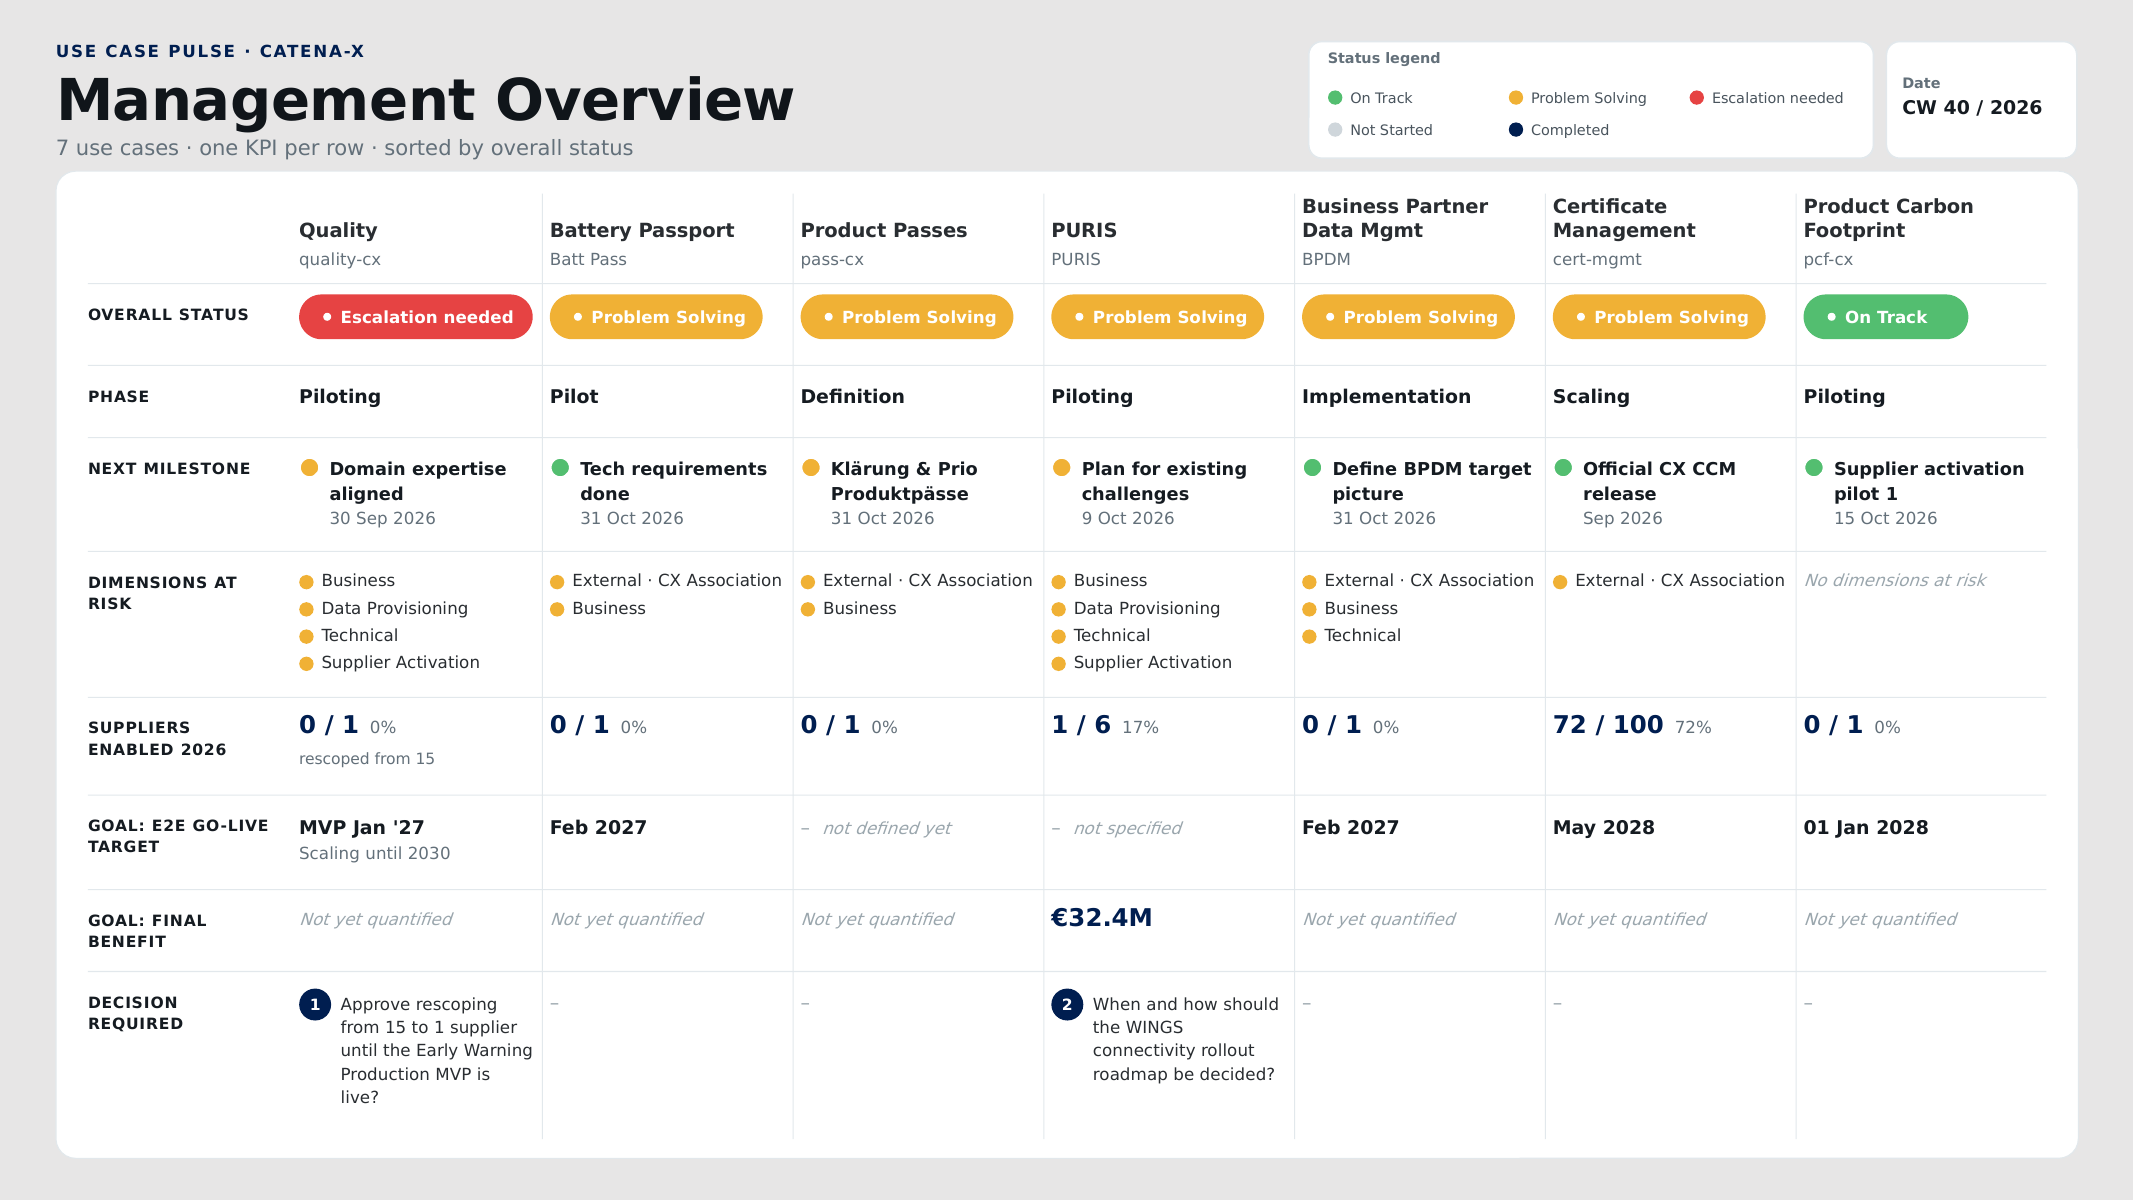
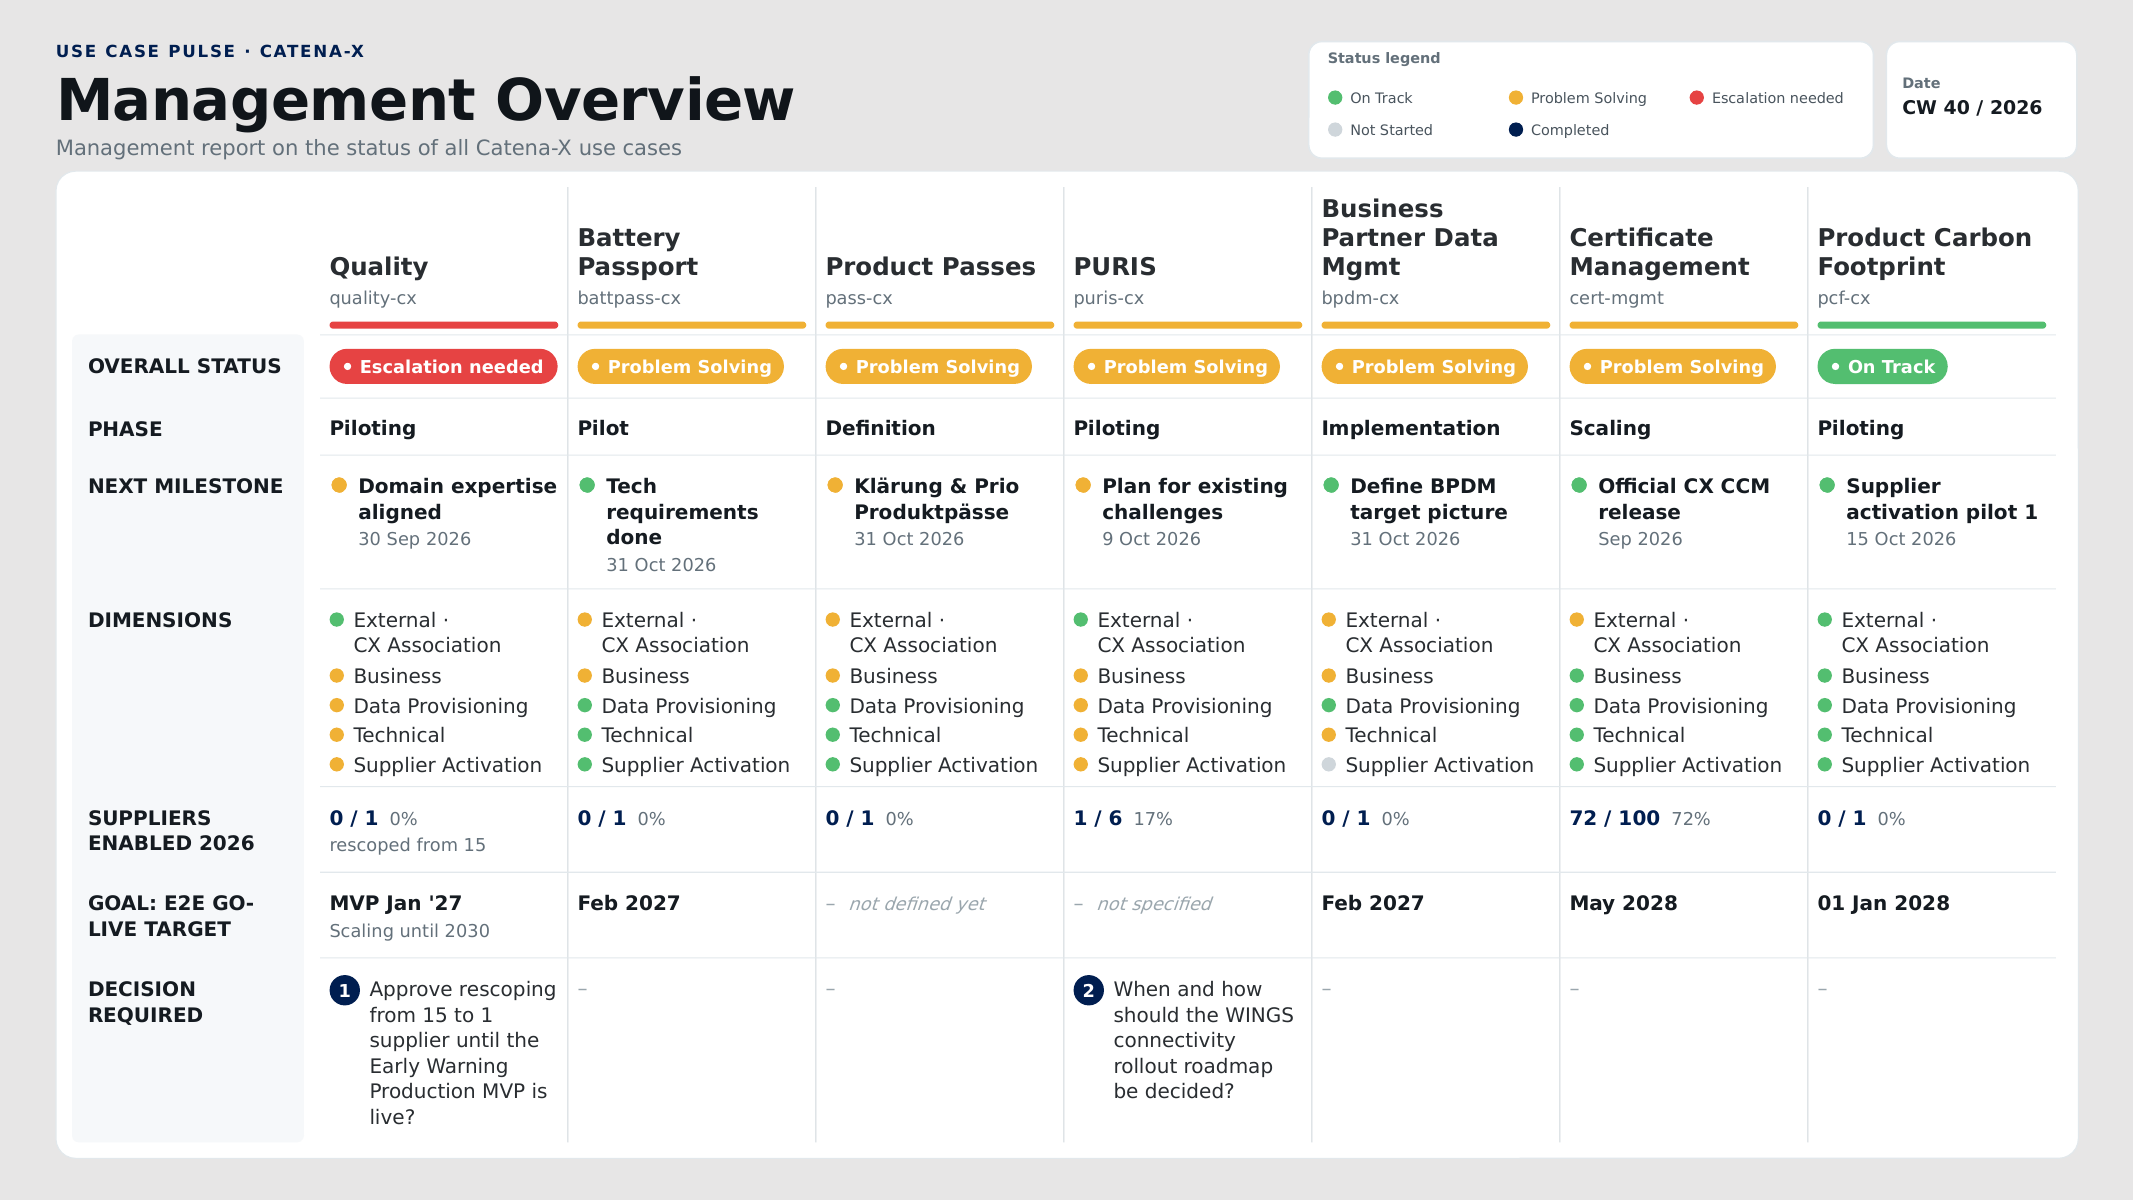
Rework Management Overview (variant 2)
- Fixed font sizes across all columns (labels 9, names 11, abbr 8,
  cells 9, sub-text 8 pt)
- Column separation: 0.5pt dividers, tinted row-label panel, status
  accent bar under each use case name
- Smaller overall-status pill
- Uniform lower-case abbreviations and new subtitle
- Remove Final Benefit row; Dimensions row shows all 5 dimensions

Claude-Session: https://claude.ai/code/session_01CQaEDurRGWu6YUbJ4GCCPu

diff --git a/scripts/build_management_overview.py b/scripts/build_management_overview.py
@@ -1,7 +1,7 @@
 """Build the "Use Case Pulse – Management Overview" slide (variant 2).
 
 Transposed version of build_overview.py: one column per use case, one row per
-KPI, so management can scan a single KPI across all use cases. Uses the same
+KPI. Each use case reads top to bottom as its own column. Uses the same
 template, colours and shape vocabulary as variant 1.
 
     python scripts/build_management_overview.py [template.pptx] [output.pptx]
@@ -10,167 +10,172 @@ template, colours and shape vocabulary as variant 1.
 import sys
 
 from build_overview import (
-    BORDER, COMPLETED, DECISIONS, DIM_NAMES, DOT, FAINT, INK, INK_STRONG, MUTED, STATUS, TEMPLATE, USE_CASES,
-    Slide, add_header, r, write_pptx,
+    BORDER, COMPLETED, DECISIONS, DIM_NAMES, DOT, FAINT, INK, INK_STRONG, MUTED, NOT_STARTED, STATUS, TEMPLATE,
+    TILE, USE_CASES, Slide, add_header, r, write_pptx,
 )
 
 TEMPLATE = sys.argv[1] if len(sys.argv) > 1 else TEMPLATE
 OUTPUT = sys.argv[2] if len(sys.argv) > 2 else "output/UseCase_Pulse_Management_Overview_CW40_26.pptx"
 
-# Management KPIs per use case (KPIS / FINAL GOAL boxes of the original PULSE slides).
-# go_live: (main value, second line) — None = not defined in the source slide.
-EXTRA = {
-    "Quality": dict(go_live=("MVP Jan '27", "Scaling until 2030"), benefit=None),
-    "Battery Passport": dict(go_live=("Feb 2027", None), benefit=None),
-    "Product Passes": dict(go_live=None, go_live_note="not defined yet", benefit=None),
-    "PURIS": dict(go_live=None, go_live_note="not specified", benefit="€32.4M"),
-    "Business Partner Data Mgmt": dict(go_live=("Feb 2027", None), benefit=None),
-    "Certificate Management": dict(go_live=("May 2028", None), benefit=None),
-    "Product Carbon Footprint": dict(go_live=("01 Jan 2028", None), benefit=None),
+# Fixed font sizes for every column (pt) — no per-cell shrinking
+F_LABEL, F_NAME, F_ABBR, F_CELL, F_SUB = 9, 11, 8, 9, 8
+
+# Lower-case abbreviations for this slide (cert-mgmt is the original source abbreviation)
+ABBR = {
+    "Quality": "quality-cx",
+    "Battery Passport": "battpass-cx",
+    "Product Passes": "pass-cx",
+    "PURIS": "puris-cx",
+    "Business Partner Data Mgmt": "bpdm-cx",
+    "Certificate Management": "cert-mgmt",
+    "Product Carbon Footprint": "pcf-cx",
 }
 
-PILL_W = {"On Track": 1.03, "Problem Solving": 1.33, "Escalation needed": 1.46, "Not Started": 1.07}
+# E2E go-live target (KPIS box of the original PULSE slides): (main value, second line),
+# or None with a note when the source slide does not define it.
+GO_LIVE = {
+    "Quality": (("MVP Jan '27", "Scaling until 2030"), None),
+    "Battery Passport": (("Feb 2027", None), None),
+    "Product Passes": (None, "not defined yet"),
+    "PURIS": (None, "not specified"),
+    "Business Partner Data Mgmt": (("Feb 2027", None), None),
+    "Certificate Management": (("May 2028", None), None),
+    "Product Carbon Footprint": (("01 Jan 2028", None), None),
+}
+
+# Dimension labels split where they would otherwise wrap mid-phrase in a narrow column
+DIM_LINES = {"External · CX Association": ["External ·", "CX Association"]}
+LINE = 0.165  # height of one 9pt text line
 
 # Row key, label, base height (inches); spare card height is shared out evenly below
 ROWS = [
-    ("status", "Overall status", 0.42),
-    ("phase", "Phase", 0.36),
-    ("ms", "Next milestone", 0.62),
-    ("dims", "Dimensions at risk", 0.82),
+    ("status", "Overall status", 0.38),
+    ("phase", "Phase", 0.34),
+    ("ms", "Next milestone", 0.82),
+    ("dims", "Dimensions", 1.22),
     ("sup", "Suppliers enabled 2026", 0.52),
-    ("golive", "Goal: E2E go-live target", 0.50),
-    ("benefit", "Goal: Final benefit", 0.42),
-    ("dec", "Decision required", 1.00),
+    ("golive", "Goal: E2E go-live target", 0.52),
+    ("dec", "Decision required", 1.14),
 ]
-GROW = {k: 1 for k, _, _ in ROWS}
 
 
-def dims_at_risk(uc):
-    """Only Problem Solving / Escalation dimensions; green and not-started ones are left out."""
-    named = list(zip(DIM_NAMES, uc["dims"])) + [("Supplier Activation", uc["sa"])]
-    return [(name, st) for name, st in named if st in ("ps", "esc")]
+def pill_width(label):
+    # dot + left padding, ~0.068" per 8pt bold character, right padding
+    return 0.19 + 0.068 * len(label) + 0.08
 
 
 def build():
     s = Slide()
-    add_header(s, "Management Overview",
-               f"{len(USE_CASES)} use cases · one KPI per row · sorted by overall status")
+    add_header(s, "Management Overview", "Management report on the status of all Catena-X use cases")
 
     card_x, card_y, card_w, card_bottom = 0.35, 1.07, 12.64, 7.24
     s.shape("Matrix Card", card_x, card_y, card_w, card_bottom - card_y, "roundRect", 2000, "FFFFFF", BORDER)
 
-    label_x, label_w = 0.55, 1.15
-    col_x0, col_x1 = 1.82, 12.79
+    panel_x, panel_w = 0.45, 1.45
+    label_x, label_w = 0.55, 1.28
+    col_x0, col_x1 = 2.00, 12.85
     cw = (col_x1 - col_x0) / len(USE_CASES)
-    pad = 0.05
-    head_y, head_h = card_y + 0.10, 0.60
+    pad = 0.06
+    head_y, head_h = card_y + 0.10, 0.92
 
-    # Distribute the remaining card height over the rows that wrap
     rows_top = head_y + head_h
-    spare = (card_bottom - 0.08) - rows_top - sum(h for _, _, h in ROWS)
-    weight = sum(GROW.values())
-    heights = {k: h + spare * GROW.get(k, 0) / weight for k, _, h in ROWS}
+    rows_bottom = card_bottom - 0.10
+    spare = rows_bottom - rows_top - sum(h for _, _, h in ROWS)
+    heights = {k: h + spare / len(ROWS) for k, _, h in ROWS}
 
-    # Column headers: use case name (up to two lines, bottom-aligned) + abbreviation
+    # Row label column on a tinted panel, clearly apart from the matrix
+    s.shape("Row Label Panel", panel_x, rows_top, panel_w, rows_bottom - rows_top, "roundRect", 3000, TILE)
+
+    # Column headers: name (up to three lines, bottom-aligned), abbreviation, status accent bar
     for c, uc in enumerate(USE_CASES):
         x = col_x0 + c * cw + pad
-        s.text(f"Col {uc['name']} Name", x, head_y, cw - 2 * pad, 0.34,
-               [[r(uc["name"], 8.75, True, INK)]], anchor="b", line_pts=1100)
-        s.text(f"Col {uc['name']} Abbr", x, head_y + 0.37, cw - 2 * pad, 0.15,
-               [[r(uc["abbr"], 7.5, False, MUTED)]])
-    # Vertical column dividers
+        w = cw - 2 * pad
+        n = uc["name"]
+        s.text(f"Col {n} Name", x, head_y, w, 0.58, [[r(n, F_NAME, True, INK)]], anchor="b", line_pts=1300)
+        s.text(f"Col {n} Abbr", x, head_y + 0.61, w, 0.16, [[r(ABBR[n], F_ABBR, False, MUTED)]])
+        s.shape(f"Col {n} Status Bar", x, head_y + head_h - 0.08, w, 0.045, "roundRect", 50000,
+                STATUS[uc["status"]][1])
+
+    # Thin vertical dividers (0.5pt) between the use case columns, header to bottom
     for c in range(1, len(USE_CASES)):
-        s.shape(f"Col Divider {c}", col_x0 + c * cw, head_y + 0.04, 0.007,
-                card_bottom - 0.12 - head_y - 0.04, fill=BORDER)
+        s.shape(f"Col Divider {c}", col_x0 + c * cw - 0.0035, head_y, 0.007, rows_bottom - head_y, fill=NOT_STARTED)
 
     y = rows_top
     for key, label, _ in ROWS:
         h = heights[key]
-        s.shape(f"Row Divider {label}", label_x, y, col_x1 - label_x, 0.007, fill=BORDER)
-        s.text(f"Row Label {label}", label_x, y + 0.12, label_w, 0.30,
-               [[r(label.upper(), 7, True, INK_STRONG, 40)]], anchor="t", line_pts=950)
-        top = y + 0.12
+        s.shape(f"Row Divider {label}", col_x0, y, col_x1 - col_x0, 0.007, fill=BORDER)
+        s.text(f"Row Label {label}", label_x, y + 0.11, label_w, h - 0.16,
+               [[r(label.upper(), F_LABEL, True, INK_STRONG)]], anchor="t", line_pts=1150)
+        top = y + 0.11
         for c, uc in enumerate(USE_CASES):
             x = col_x0 + c * cw + pad
             w = cw - 2 * pad
             n = uc["name"]
-            ex = EXTRA[n]
 
             if key == "status":
                 lbl, fill, fg = STATUS[uc["status"]]
-                pw = PILL_W[lbl]
-                py = top - 0.05
-                s.shape(f"{n} Status Pill", x, py, pw, 0.28, "roundRect", 50000, fill)
-                s.shape(f"{n} Status Dot", x + 0.15, py + 0.115, 0.05, 0.05, "ellipse", fill=fg)
-                s.text(f"{n} Status Text", x + 0.26, py + 0.07, pw - 0.30, 0.14,
-                       [[r(lbl, 7.5, True, fg)]], wrap=False)
+                pw, ph = pill_width(lbl), 0.22
+                s.shape(f"{n} Status Pill", x, top - 0.02, pw, ph, "roundRect", 50000, fill)
+                s.shape(f"{n} Status Dot", x + 0.09, top - 0.02 + ph / 2 - 0.022, 0.045, 0.045, "ellipse", fill=fg)
+                s.text(f"{n} Status Text", x + 0.19, top - 0.02, pw - 0.23, ph,
+                       [[r(lbl, F_SUB, True, fg)]], wrap=False)
 
             elif key == "phase":
-                s.text(f"{n} Phase", x, top, w, 0.17, [[r(uc["phase"], 8.5, True, INK_STRONG)]], anchor="t")
+                s.text(f"{n} Phase", x, top, w, LINE, [[r(uc["phase"], F_CELL, True, INK_STRONG)]], anchor="t")
 
             elif key == "ms":
                 st, ms_name, ms_date = uc["ms"]
-                s.shape(f"{n} Milestone Dot", x, top + 0.005, 0.13, 0.13, "ellipse", fill=DOT[st],
+                s.shape(f"{n} Milestone Dot", x, top + 0.02, 0.12, 0.12, "ellipse", fill=DOT[st],
                         line="FFFFFF", line_w=19050)
-                s.text(f"{n} Milestone", x + 0.19, top - 0.01, w - 0.19, h - 0.14,
-                       [[r(ms_name, 8, True, INK_STRONG)], [r(ms_date, 7.5, False, MUTED)]],
-                       anchor="t", line_pts=1100)
+                s.text(f"{n} Milestone", x + 0.18, top, w - 0.18, h - 0.14,
+                       [[r(ms_name, F_CELL, True, INK_STRONG)], [r(ms_date, F_SUB, False, MUTED)]],
+                       anchor="t", line_pts=1150)
 
             elif key == "dims":
-                risk = dims_at_risk(uc)
-                if not risk:
-                    s.text(f"{n} No Dims", x, top, w, 0.16,
-                           [[r("No dimensions at risk", 7.5, False, FAINT, None, True)]], anchor="t")
-                for k, (dim, st) in enumerate(risk):
-                    ly = top + k * 0.17
-                    s.shape(f"{n} Risk Dot {dim}", x, ly + 0.03, 0.09, 0.09, "ellipse", fill=DOT[st])
-                    s.text(f"{n} Risk {dim}", x + 0.14, ly, w - 0.14, 0.16,
-                           [[r(dim, 7.5, False, INK)]], anchor="t")
+                ly = top
+                for dim, st in list(zip(DIM_NAMES, uc["dims"])) + [("Supplier Activation", uc["sa"])]:
+                    lines = DIM_LINES.get(dim, [dim])
+                    s.shape(f"{n} Dim Dot {dim}", x, ly + 0.04, 0.09, 0.09, "ellipse", fill=DOT[st])
+                    s.text(f"{n} Dim {dim}", x + 0.15, ly, w - 0.15, LINE * len(lines),
+                           [[r(t, F_CELL, False, INK)] for t in lines], anchor="t", line_pts=1150)
+                    ly += LINE * len(lines) + 0.02
 
             elif key == "sup":
                 done, total = uc["sup"]
                 pct = round(100 * done / total)
-                paras = [[r(f"{done} / {total}", 11, True, COMPLETED), r(f"  {pct}%", 7.5, False, MUTED)]]
+                paras = [[r(f"{done} / {total}", F_CELL, True, COMPLETED), r(f"  {pct}%", F_SUB, False, MUTED)]]
                 if uc.get("note"):
-                    paras.append([r("rescoped from 15", 7, False, MUTED)])
-                s.text(f"{n} Suppliers", x, top - 0.04, w, h - 0.10, paras, anchor="t", line_pts=1300)
+                    paras.append([r("rescoped from 15", F_SUB, False, MUTED)])
+                s.text(f"{n} Suppliers", x, top, w, h - 0.14, paras, anchor="t", line_pts=1150)
 
             elif key == "golive":
-                gl = ex["go_live"]
-                if gl:
-                    paras = [[r(gl[0], 8.5, True, INK_STRONG)]]
-                    if gl[1]:
-                        paras.append([r(gl[1], 7.5, False, MUTED)])
+                value, note = GO_LIVE[n]
+                if value:
+                    paras = [[r(value[0], F_CELL, True, INK_STRONG)]]
+                    if value[1]:
+                        paras.append([r(value[1], F_SUB, False, MUTED)])
                 else:
-                    paras = [[r("–  ", 8.5, False, FAINT), r(ex["go_live_note"], 7.5, False, FAINT, None, True)]]
-                s.text(f"{n} Go-live", x, top, w, h - 0.14, paras, anchor="t", line_pts=1100)
-
-            elif key == "benefit":
-                if ex["benefit"]:
-                    s.text(f"{n} Benefit", x, top - 0.04, w, 0.22, [[r(ex["benefit"], 11, True, COMPLETED)]],
-                           anchor="t")
-                else:
-                    s.text(f"{n} Benefit", x, top, w, 0.16,
-                           [[r("Not yet quantified", 7.5, False, FAINT, None, True)]], anchor="t")
+                    paras = [[r("–  ", F_CELL, False, FAINT), r(note, F_SUB, False, FAINT, None, True)]]
+                s.text(f"{n} Go-live", x, top, w, h - 0.14, paras, anchor="t", line_pts=1150)
 
             elif key == "dec":
                 if uc.get("decision"):
                     num = uc["decision"]
-                    s.shape(f"{n} Decision Flag", x, top - 0.01, 0.20, 0.20, "ellipse", fill=COMPLETED)
-                    s.text(f"{n} Decision No", x, top - 0.01, 0.20, 0.20,
-                           [[r(str(num), 7, True, "FFFFFF")]], algn="ctr")
-                    s.text(f"{n} Decision", x + 0.26, top, w - 0.26, h - 0.16,
-                           [[r(DECISIONS[num - 1][1], 7.5, False, INK)]], anchor="t", line_pts=1050)
+                    s.shape(f"{n} Decision Flag", x, top, 0.19, 0.19, "ellipse", fill=COMPLETED)
+                    s.text(f"{n} Decision No", x, top, 0.19, 0.19,
+                           [[r(str(num), F_SUB, True, "FFFFFF")]], algn="ctr")
+                    s.text(f"{n} Decision", x + 0.25, top, w - 0.25, h - 0.14,
+                           [[r(DECISIONS[num - 1][1], F_CELL, False, INK)]], anchor="t", line_pts=1150)
                 else:
-                    s.text(f"{n} Decision None", x, top, w, 0.16, [[r("–", 8.5, False, FAINT)]], anchor="t")
+                    s.text(f"{n} Decision None", x, top, w, LINE, [[r("–", F_CELL, False, FAINT)]], anchor="t")
         y += h
     return s
 
 
 def main():
     write_pptx(build().shapes, OUTPUT,
-               "Use Case Pulse Management Overview CW 40 / 2026 – one column per use case, one KPI per row, "
-               "sorted by overall status. Dimensions at risk show only Problem Solving / Escalation.")
+               "Use Case Pulse Management Overview CW 40 / 2026 – one column per use case (read top to bottom), "
+               "one KPI per row, sorted by overall status.")
 
 
 if __name__ == "__main__":
